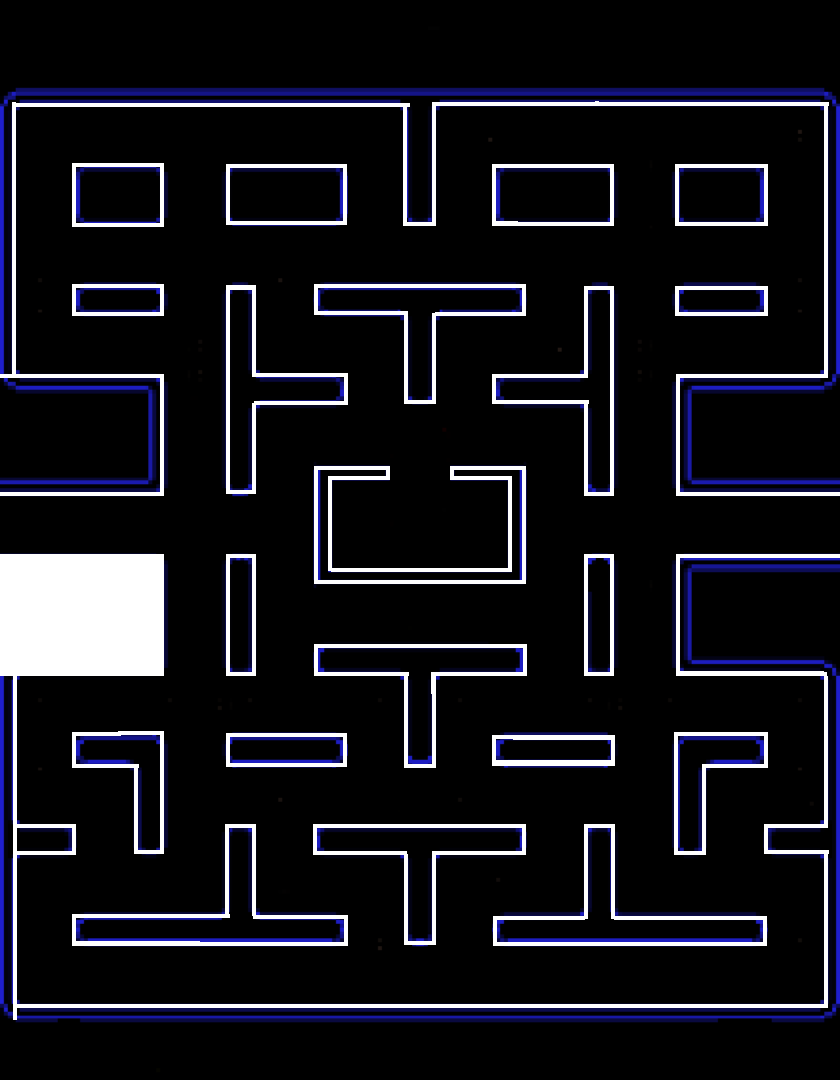
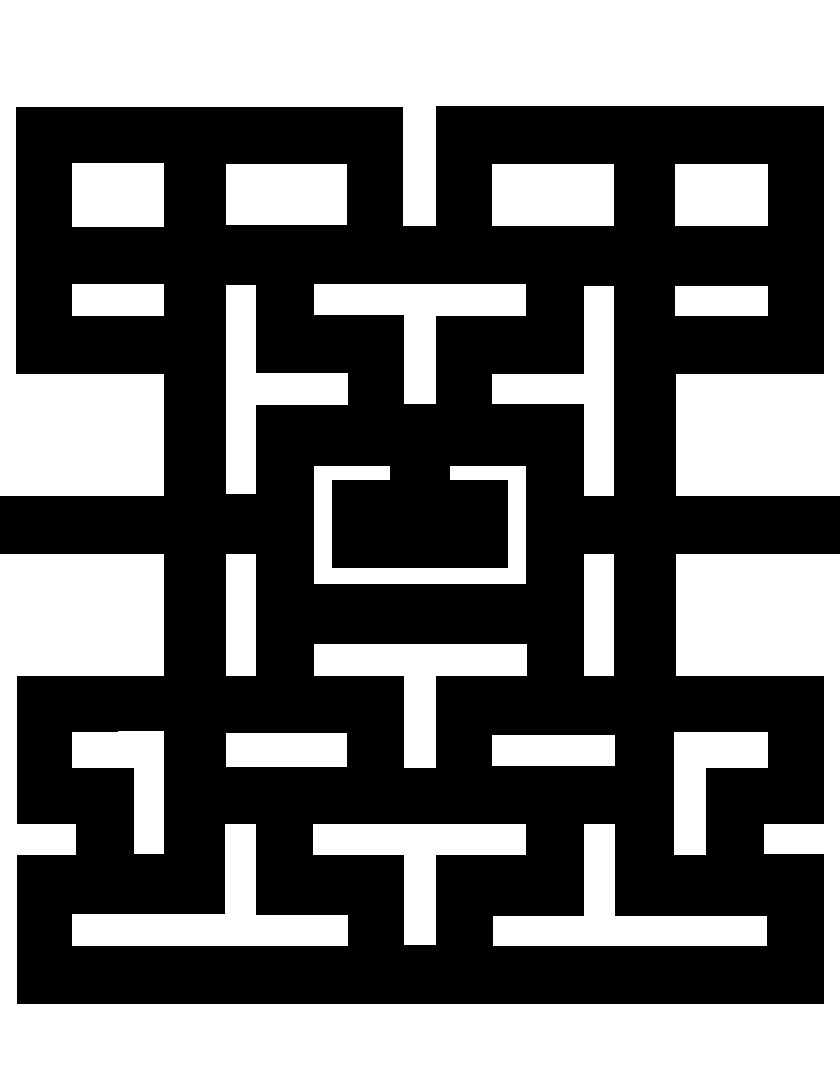
123

diff --git a/text1.py b/text1.py
@@ -139,7 +139,16 @@ while 1:
     clydepos = (posx4, posy4)
     screen.blit(clyde.image, clydepos)
     
-    pygame.Surface.set_at(backdrop, (playerpos2), Color('yellow'))
+    #pygame.Surface.set_at(backdrop, (playerpos2), Color('yellow'))
+    colorgetRIGHT = pygame.Surface.get_at(movemap, ((playerpos2[0] + 30, playerpos2[1])))
+    colorgetTOP = pygame.Surface.get_at(movemap, ((playerpos2[0], playerpos2[1] - 30)))
+    colorgetLEFT = pygame.Surface.get_at(movemap, ((playerpos2[0] - 30, playerpos2[1])))
+    colorgetBOTTOM = pygame.Surface.get_at(movemap, ((playerpos2[0], playerpos2[1] + 30)))
+    
+    colorgetTOPRIGHT = pygame.Surface.get_at(movemap, ((playerpos2[0] + 25, playerpos2[1] - 25)))
+    colorgetTOPLEFT = pygame.Surface.get_at(movemap, ((playerpos2[0] - 25, playerpos2[1] - 25)))
+    colorgetBOTTOMLEFT = pygame.Surface.get_at(movemap, ((playerpos2[0] - 25, playerpos2[1] + 25)))
+    colorgetBOTTOMRIGHT = pygame.Surface.get_at(movemap, ((playerpos2[0] + 25, playerpos2[1] + 25)))
     
     pygame.display.update()
 
@@ -149,9 +158,13 @@ while 1:
             pygame.quit() 
             exit(0) 
             
+#----------------
+#change section to brain wave patterns
+            
+    #change the event type/event key to brain signal
         if event.type == pygame.KEYDOWN and not keydown:
-            #keydown = True
             if event.key==K_w:
+                #keep keys array
                 keys[0]=True
             elif event.key==K_a:
                 keys[1]=True
@@ -159,11 +172,8 @@ while 1:
                 keys[2]=True
             elif event.key==K_d:
                 keys[3]=True
-            #else:
-                #keydown = False
-                
+        #same thing        
         if event.type == pygame.KEYUP:
-            #keydown =False
             if event.key==pygame.K_w:
                 keys[0]=False
             elif event.key==pygame.K_a:
@@ -173,25 +183,48 @@ while 1:
             elif event.key==pygame.K_d:
                 keys[3]=False
                 
+#------------------
+                
     if angle == 270:
-        posy -= 6
+        if(colorgetTOP == (0, 0, 0, 255)):
+            if(colorgetTOPRIGHT == (0, 0, 0, 255)):
+                if(colorgetTOPLEFT == (0, 0, 0, 255)):
+                    posy -= 6
     if angle == 0:
-        posx -= 6
+        if(colorgetLEFT == (0, 0, 0, 255)):
+            if(colorgetTOPLEFT == (0, 0, 0, 255)):
+                if(colorgetBOTTOMLEFT == (0, 0, 0, 255)):
+                    posx -= 6
     if angle == 180:
-        posx += 6
+        if(colorgetRIGHT == (0, 0, 0, 255)):
+            if(colorgetTOPRIGHT == (0, 0, 0, 255)):
+                if(colorgetBOTTOMRIGHT == (0, 0, 0, 255)):
+                    posx += 6
     if angle == 90:
-        posy += 6
+        if(colorgetBOTTOM == (0, 0, 0, 255)):
+            if(colorgetBOTTOMRIGHT == (0, 0, 0, 255)):
+                if(colorgetBOTTOMLEFT == (0, 0, 0, 255)):
+                    posy += 6
+    
     
     if keys[0]:
-        angle = 270
-        #posy -= 8
+        if(colorgetTOP == (0, 0, 0, 255)):
+            if(colorgetTOPRIGHT == (0, 0, 0, 255)):
+                if(colorgetTOPLEFT == (0, 0, 0, 255)):
+                    angle = 270
     elif keys[2]:
-        angle = 90                              
-        #posy +=8
+        if(colorgetBOTTOM == (0, 0, 0, 255)):
+            if(colorgetBOTTOMRIGHT == (0, 0, 0, 255)):
+                if(colorgetBOTTOMLEFT == (0, 0, 0, 255)):
+                    angle = 90                              
     if keys[1]:
-        angle = 0                                
-        #posx-=8
+        if(colorgetLEFT == (0, 0, 0, 255)):
+            if(colorgetTOPLEFT == (0, 0, 0, 255)):
+                if(colorgetBOTTOMLEFT == (0, 0, 0, 255)):
+                    angle = 0                                
     elif keys[3]:
-        angle = 180                                
-        #posx+=8
+        if(colorgetRIGHT == (0, 0, 0, 255)):
+            if(colorgetTOPRIGHT == (0, 0, 0, 255)):
+                if(colorgetBOTTOMRIGHT == (0, 0, 0, 255)):
+                    angle = 180                                
     clock.tick(60)

diff --git a/sprite.py b/sprite.py
@@ -1,0 +1,24 @@
+import pygame
+from pygame.locals import *
+from pygame import Color
+
+pygame.init()
+width, height = 840, 1080
+screen=pygame.display.set_mode((width,height))
+
+backdrop = pygame.image.load("resources/images/backdrop.png")
+pygame.Surface.set_at(backdrop, (0,1010), Color('yellow'))
+screen.fill(0)
+screen.blit(backdrop, (0,0))
+pygame.display.update()
+test = pygame.Surface.get_at(backdrop,((0,100)))
+test1 = pygame.Surface.get_size(backdrop)[1] // 2
+print(test)
+
+#if test == (255, 255, 0, 255):
+    #print("y")
+while 1:
+    for event in pygame.event.get():
+        if event.type == pygame.QUIT:
+            pygame.quit()
+            exit(0)
